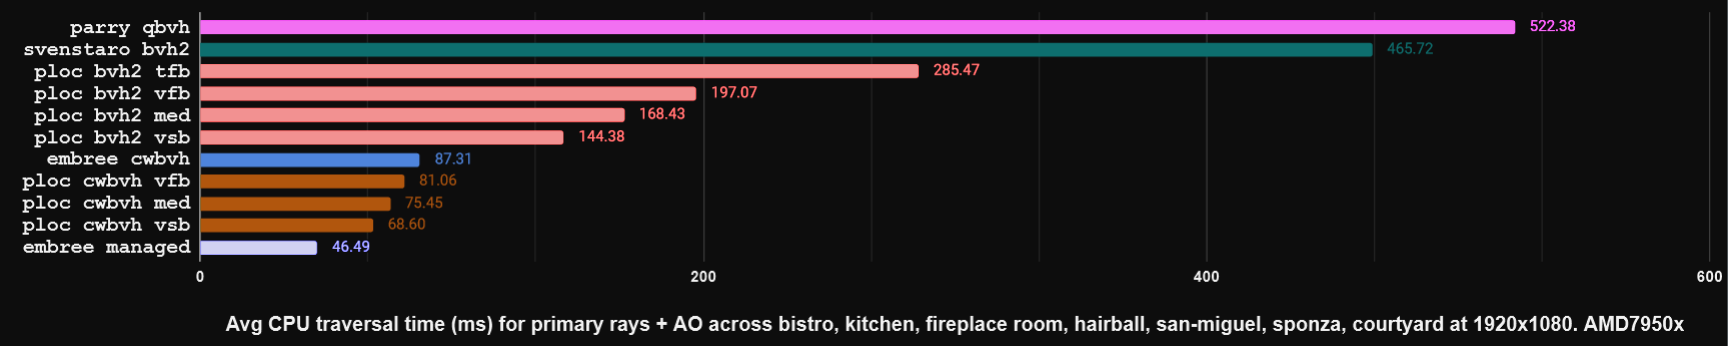
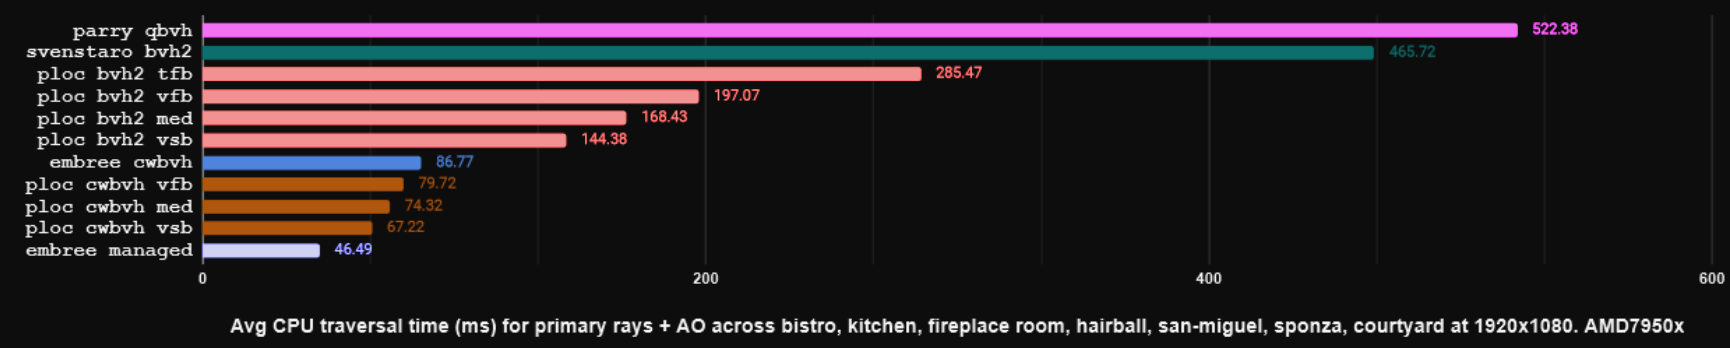
Don't assign current node group to primitive group, update bench results

diff --git a/README.md b/README.md
@@ -20,7 +20,7 @@ All times are in (milli)seconds. Less is better.
 ![gpu_traversal_bench](results/gpu_traversal_bench.PNG)
 ![cpu_single_threaded_building_bench](results/cpu_single_threaded_building_bench.PNG)
 ![cpu_multi_threaded_building_bench](results/cpu_multi_threaded_building_bench.PNG)
-*Benchmarked on 6/18/24*
+*Last updated on 6/30/24*
 
 Test Scenes:
 
